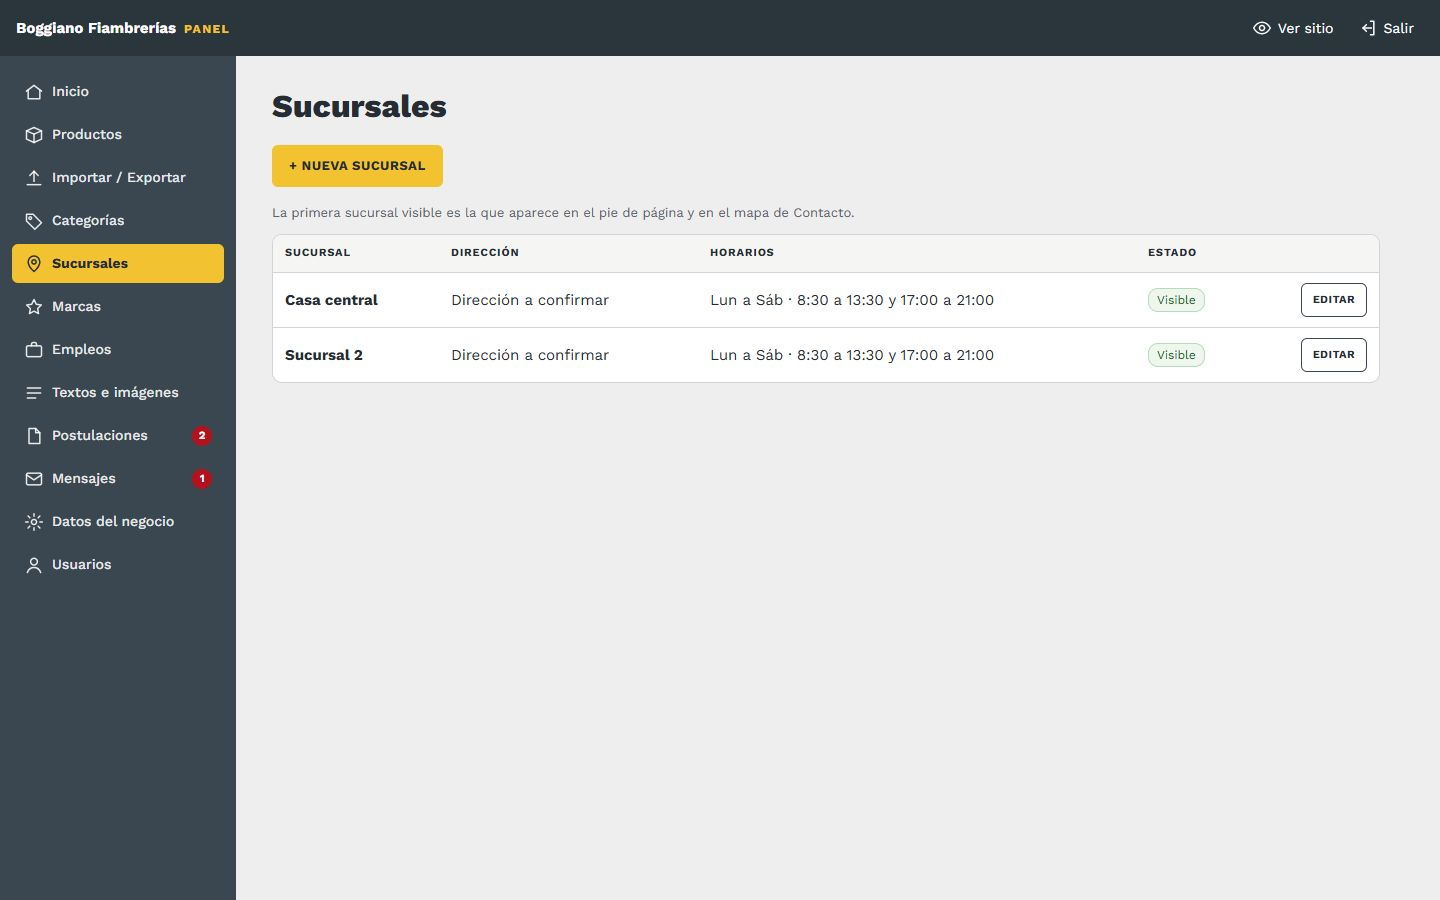
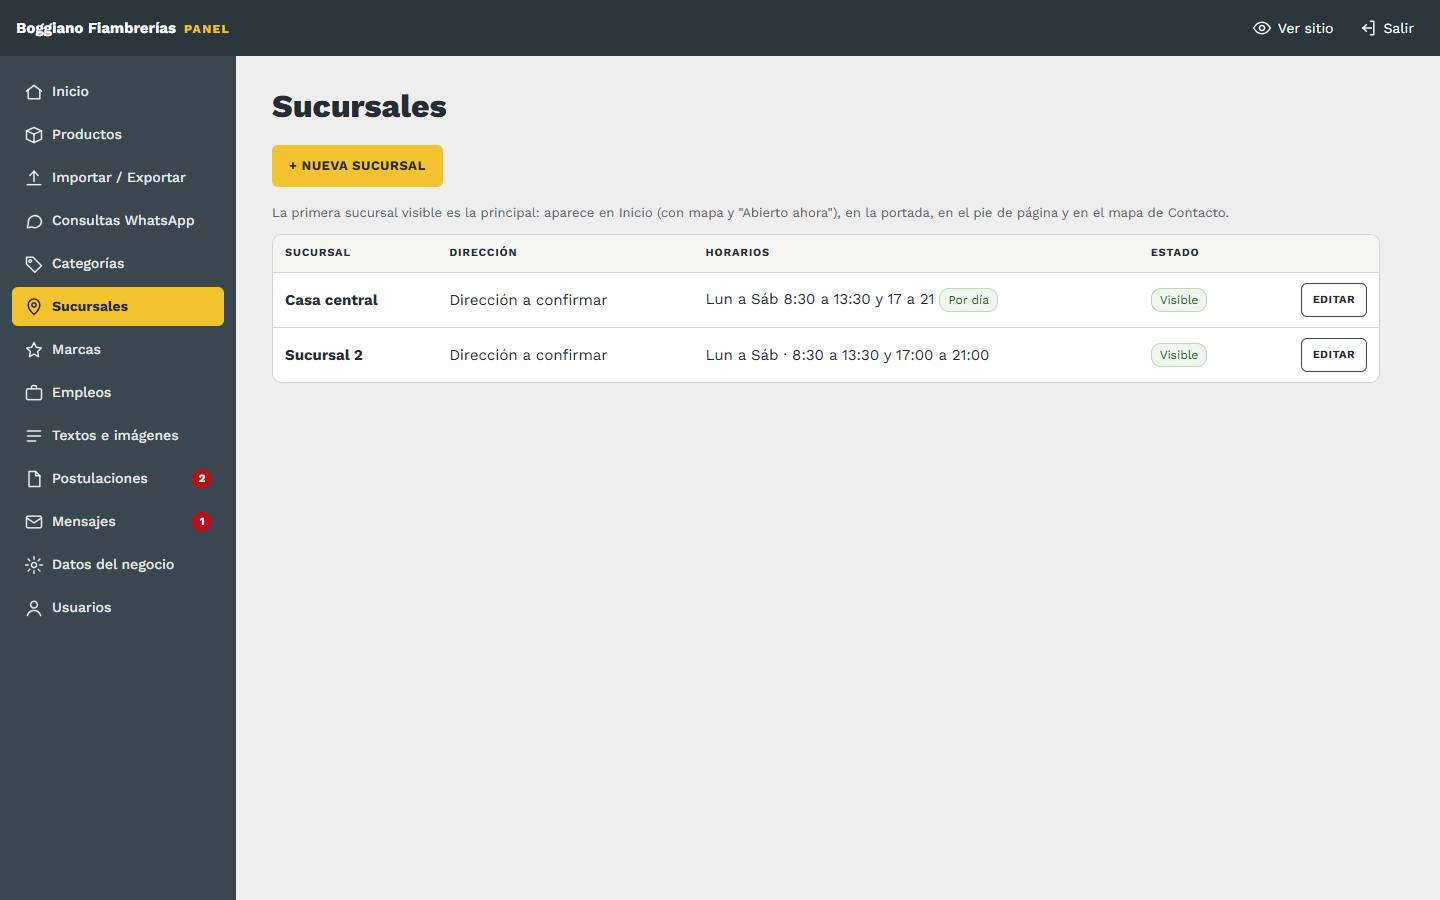
Guía al día con los cambios del 4 y 5 de noviembre
- README: mapa de Inicio (de dónde sale cada parte), pendientes actualizados (sucursales cargadas, WhatsApp general y teléfono) y filas nuevas en Quiero cambiar
- Productos: tarjeta sin WhatsApp propio; Categorías: fichas de color
- Sucursales: captura de la sucursal destacada; Textos: franja de sellos y pestaña WhatsApp
- Mantenimiento: feriados y el cartel Abierto ahora; Consultas: sin botón por producto
- Capturas nuevas de Inicio, destacados, categorías, sucursales, panel de sucursal y Textos

diff --git a/README.md b/README.md
@@ -8,17 +8,30 @@ El panel está en **[boggianofiambrerias.com.ar/admin](https://boggianofiambreri
 
 ![El sitio](img/sitio-inicio.jpg)
 
+## Qué hay en Inicio y de dónde sale cada cosa
+
+| De arriba hacia abajo | Se cambia en |
+|---|---|
+| Botón verde **Consultar** del encabezado y botón flotante **¿Consultás? Escribinos** | El número, en [Datos del negocio](guia/02-datos-del-negocio.md); el mensaje, en [Textos → WhatsApp](guia/10-textos-e-imagenes.md#mensajes-de-whatsapp) |
+| Cartel **"Abierto ahora · cierra a las 21"** | El horario por día de la primera sucursal, en [Sucursales](guia/06-sucursales.md) |
+| Portada: título, texto y la etiqueta sobre la foto | [Textos e imágenes](guia/10-textos-e-imagenes.md) → Inicio; la foto, en Imágenes |
+| Franja amarilla con los **3 sellos** | [Textos e imágenes](guia/10-textos-e-imagenes.md) → Inicio → Sellos |
+| **Fichas de categorías** (en el celular se deslizan de costado) | [Categorías](guia/05-categorias.md) |
+| **Los que más salen**: los primeros 4 destacados | [Productos](guia/03-productos.md), con la estrella ★ |
+| **Te esperamos**: la sucursal principal con mapa, horario de hoy, Cómo llegar y WhatsApp | La primera sucursal visible, en [Sucursales](guia/06-sucursales.md) |
+| **Por qué Boggiano** y **Marcas** | [Textos e imágenes](guia/10-textos-e-imagenes.md) y [Marcas](guia/07-marcas.md) |
+
 ## Para dejar el sitio listo
 
 Hoy el sitio está publicado pero con **datos de ejemplo**. En este orden:
 
 **Urgente**
-- [ ] **WhatsApp real.** Mientras diga `5490000000000`, cada botón "Consultar" lleva a un número que no existe. → [Datos del negocio](guia/02-datos-del-negocio.md)
-- [ ] **Teléfono, Instagram y Facebook.** → [Datos del negocio](guia/02-datos-del-negocio.md)
+- [ ] **WhatsApp general real.** Mientras diga `5490000000000`, los botones generales (Consultar del encabezado, el flotante, el de la portada y el de Contacto) llevan a un número que no existe. Los de cada sucursal ya van al WhatsApp de esa sucursal. → [Datos del negocio](guia/02-datos-del-negocio.md)
+- [ ] **Teléfono, Instagram y Facebook.** El pie de página todavía muestra "(000) 000-0000". → [Datos del negocio](guia/02-datos-del-negocio.md)
 - [ ] **Casillas de correo:** `ventas@` (con la contraseña que tiene cargada el sitio) y el alias `empleos@`. Sin ellas, los avisos de mensajes y CV no salen. → [Correo](guia/12-correo.md)
 
 **Contenido**
-- [ ] **Sucursales:** dirección, horarios y mapa de cada una. → [Sucursales](guia/06-sucursales.md)
+- [x] **Sucursales:** dirección, horario por día, mapa y WhatsApp de cada una (cargadas las 7 el 5/11). → [Sucursales](guia/06-sucursales.md)
 - [ ] **Catálogo real**, cargado desde Excel, y **fotos** de los productos (se pueden subir todas juntas con *Fotos en lote*). Borrá u ocultá los de ejemplo que no vendas. → [Importar](guia/04-importar-exportar.md) · [Fotos en lote](guia/03-productos.md#subir-muchas-fotos-juntas-fotos-en-lote)
 - [ ] **Marcas reales** con su logo. "Marca 2" a "Marca 6" son de ejemplo. → [Marcas](guia/07-marcas.md)
 - [ ] **Búsquedas laborales:** las dos que hay son de ejemplo. → [Empleos](guia/08-empleos-y-postulaciones.md)
@@ -44,12 +57,14 @@ Hoy el sitio está publicado pero con **datos de ejemplo**. En este orden:
 | Muchos productos a la vez | Importar / Exportar | [04](guia/04-importar-exportar.md) |
 | Muchas fotos a la vez | Productos → Fotos en lote | [03](guia/03-productos.md#subir-muchas-fotos-juntas-fotos-en-lote) |
 | Las categorías o el menú "Productos" (agregar, ocultar, borrar) | Categorías | [05](guia/05-categorias.md) |
-| Direcciones, horarios, mapas | Sucursales | [06](guia/06-sucursales.md) |
+| Direcciones, horario por día ("Abierto ahora"), mapas y el WhatsApp de cada sucursal | Sucursales | [06](guia/06-sucursales.md) |
+| Qué sucursal sale destacada en Inicio | Sucursales: la primera visible (orden más bajo) | [06](guia/06-sucursales.md) |
 | Los logos de las marcas | Marcas | [07](guia/07-marcas.md) |
 | Las búsquedas de empleo / ver CV | Empleos · Postulaciones | [08](guia/08-empleos-y-postulaciones.md) |
 | Responder una consulta | Mensajes | [09](guia/09-mensajes.md) |
-| Un texto de cualquier página, el logo, las fotos grandes, la portada con o sin foto | Textos e imágenes | [10](guia/10-textos-e-imagenes.md) |
-| Ver qué productos consultan por WhatsApp | Consultas WhatsApp | [14](guia/14-consultas-por-whatsapp.md) |
+| Un texto de cualquier página, los sellos, la etiqueta sobre la foto, el logo, las fotos grandes, la portada con o sin foto | Textos e imágenes | [10](guia/10-textos-e-imagenes.md) |
+| Lo que queda escrito al abrir WhatsApp | Textos e imágenes → WhatsApp | [10](guia/10-textos-e-imagenes.md#mensajes-de-whatsapp) |
+| Ver cuántas consultas llegan por WhatsApp | Consultas WhatsApp | [14](guia/14-consultas-por-whatsapp.md) |
 | Quién puede entrar al panel | Usuarios | [11](guia/11-usuarios.md) |
 | Leer los mails de las casillas | Webmail o Gmail | [12](guia/12-correo.md) |
 | Respaldos y qué no tocar | — | [13](guia/13-mantenimiento.md) |

diff --git a/guia/14-consultas-por-whatsapp.md b/guia/14-consultas-por-whatsapp.md
@@ -6,17 +6,17 @@
 
 ![Consultas por WhatsApp](../img/consultas.jpg)
 
-Cada vez que alguien toca un botón de WhatsApp del sitio, el panel lo anota. Así ves qué productos interesan y si el sitio trae consultas.
+Cada vez que alguien toca un botón de WhatsApp del sitio, el panel lo anota. Así ves si el sitio trae consultas y por qué sucursal preguntan.
 
 ## Qué muestra
 
 - **Período:** se elige arriba entre los últimos 7, 30 o 90 días.
 - **Totales:** cuántas consultas hubo, separadas según de dónde salieron:
-  - **Desde un producto:** el botón "Consultar" de cada producto.
-  - **Desde una sucursal:** el botón "Consultar" de cada sucursal.
-  - **Botón general:** el botón verde flotante, el del menú en el celular y los de Inicio y Contacto.
+  - **Desde una sucursal:** el botón "WhatsApp" de cada sucursal (en Inicio y en Sucursales).
+  - **Botón general:** el "Consultar" del encabezado, el flotante, el del menú en el celular, el de la portada, el de Contacto y el del catálogo cuando una búsqueda no encuentra nada.
+  - **Desde un producto:** solo consultas viejas. Los productos ya no tienen botón propio, así que este número deja de crecer.
 - **Consultas por día:** pasá el mouse por una barra para ver el número de ese día.
-- **Productos y sucursales más consultados**, y **desde qué página** llegaron.
+- **Sucursales más consultadas** (y los productos de antes, mientras entren en el período), y **desde qué página** llegaron.
 
 ## Bueno saber
 
@@ -24,5 +24,6 @@ Cada vez que alguien toca un botón de WhatsApp del sitio, el panel lo anota. As
 - **No se guarda nada de la persona:** ni su número, ni su nombre, ni qué escribió.
 - **Clics repetidos:** una misma conexión cuenta hasta 30 clics por hora, así nadie infla los números tocando el botón muchas veces.
 - **Para qué sirve:**
-  - **Fotos:** los productos que más se consultan son los primeros a los que conviene ponerles foto.
-  - **Destacados:** conviene marcar esos productos como destacados, así aparecen en Inicio.
+  - **Ver si la web trae clientes:** si el total sube después de una publicación en redes o de un cambio en el sitio, funcionó.
+  - **Sucursales:** cuál recibe más consultas desde la web, para reforzar la atención por WhatsApp de esa sucursal.
+  - **Desde qué página:** si llegan desde Productos, el catálogo se está usando; si es mayormente desde Inicio, conviene destacar bien los productos que más salen.

diff --git a/guia/10-textos-e-imagenes.md b/guia/10-textos-e-imagenes.md
@@ -21,12 +21,17 @@
 |---|---|
 | **Inicio** | Título de la pestaña del navegador, descripción para Google, la portada (etiqueta, título, título en amarillo, texto y la **etiqueta sobre la foto**; escribí `-` para no mostrarla), los **3 sellos** de la franja amarilla, los títulos de las secciones (incluida la de la sucursal, "Te esperamos") y los 4 motivos de "Por qué Boggiano" |
 | **Productos** | Descripción para Google y el encabezado (etiqueta, título y texto) |
+| **WhatsApp** | Los mensajes que quedan escritos al abrir el chat (ver abajo) |
 | **Sucursales** | Descripción para Google y el encabezado |
 | **Nosotros** | Descripción para Google, encabezado, **historia** (título y dos párrafos), los 4 valores y la banda final |
 | **Marcas** | Descripción para Google, encabezado y la banda "¿Tenés una marca?" |
 | **Proveedores** | Descripción para Google, encabezado, "Qué buscamos", los 3 requisitos y el título del formulario |
 | **Empleos** | Descripción para Google, encabezado, el título de las búsquedas y el del formulario |
 | **Contacto** | Descripción para Google, encabezado y el título del formulario |
+
+![Franja de sellos en Inicio](../img/sitio-sellos.jpg)
+
+*La franja de sellos, debajo de la portada. Sus 3 textos están en Inicio → Sellos.*
 
 ### Mensajes de WhatsApp
 

diff --git a/guia/05-categorias.md b/guia/05-categorias.md
@@ -22,10 +22,10 @@ Tocá la etiqueta **Visible** de la lista (pasa a **Oculta**), o destildá **Vis
 
 | Campo | Qué cambia en el sitio |
 |---|---|
-| **Nombre** | El botón de filtro del catálogo, la tarjeta de Inicio, el menú desplegable "Productos" y la lista del pie |
-| **Ícono** | El dibujo de la tarjeta en Inicio, y el de los productos de esa categoría que no tienen foto |
+| **Nombre** | El botón de filtro del catálogo, la ficha de Inicio, el menú desplegable "Productos" y la lista del pie |
+| **Ícono** | El dibujo de la ficha de color en Inicio, y el de los productos de esa categoría que no tienen foto |
 | **Columna del menú** | En cuál de las **4 columnas** del desplegable "Productos" aparece |
-| **Orden** | El orden de los filtros, de las tarjetas de Inicio y del pie (menor primero) |
+| **Orden** | El orden de los filtros, de las fichas de Inicio y del pie (menor primero). Los colores de las fichas se alternan solos según el orden |
 | **Subcategorías y tipos** | Los filtros debajo de la categoría en el catálogo (una fila para subcategorías y, si la subcategoría tiene tipos, otra fila más abajo), y la lista del desplegable |
 
 ![Menú desplegable de productos](../img/sitio-menu-productos.jpg)

diff --git a/guia/06-sucursales.md b/guia/06-sucursales.md
@@ -34,6 +34,8 @@ El estado se calcula con la **hora de Argentina** en el momento en que la person
 ![Sucursales en el sitio](../img/sitio-sucursales.jpg)
 
 - **Inicio:** la **primera sucursal visible** sale destacada en "Te esperamos", con mapa, el cartel de abierto o cerrado, el horario de hoy y los botones **Cómo llegar** y **WhatsApp**. Su estado también aparece arriba de todo en la portada.
+![Sucursal destacada en Inicio](../img/sitio-sucursal-inicio.jpg)
+
 - **Página Sucursales:** una tarjeta por sucursal visible, con mapa, el cartel de abierto o cerrado, dirección, horarios, **Cómo llegar** (abre Google Maps con el recorrido) y **WhatsApp**, que abre el chat con el nombre de esa sucursal en el mensaje.
 - **Página Contacto:** la lista de sucursales, y el **mapa de la primera**.
 - **Pie de página:** la dirección y los horarios de la **primera sucursal visible**.

diff --git a/guia/13-mantenimiento.md b/guia/13-mantenimiento.md
@@ -27,7 +27,7 @@ El sitio vive en el hosting en dos carpetas. Desde el panel del sitio no hace fa
 - **Postulaciones:** borrá las que ya no necesites (Ley 25.326).
 - **Fotos:** revisá en el panel los productos **sin foto** y ocultá los que ya no vendés.
 - **Búsquedas laborales:** cerrá las que ya cubriste.
-- **Horarios:** en fechas especiales (fiestas, feriados), cambialos en [Sucursales](06-sucursales.md), y si hace falta en la portada desde [Textos](10-textos-e-imagenes.md).
+- **Horarios:** el cartel "Abierto ahora" **no sabe de feriados**. Para un feriado o una fecha especial, cambiá ese día en el **horario por día** de [Sucursales](06-sucursales.md) (dejalo vacío si cierran) y volvé a ponerlo después. Si hace falta avisarlo, sumalo al texto de la portada desde [Textos](10-textos-e-imagenes.md).
 
 ## Vencimientos
 

diff --git a/guia/03-productos.md b/guia/03-productos.md
@@ -58,6 +58,8 @@ Tocá **+ Nuevo producto** o **Editar**.
 | Destacado | **Los primeros 4** destacados, según el orden, salen en Inicio, en "Los que más salen", con la etiqueta roja *Destacado* |
 | Orden | El orden de las tarjetas en el catálogo y cuáles 4 destacados se ven en Inicio |
 
+**La tarjeta de cada producto** muestra la foto a todo el ancho, la **marca** arriba del nombre y, en gris, dónde está en el catálogo (categoría · subcategoría · tipo). **No tiene botón de WhatsApp propio:** para consultar se usa el botón verde del encabezado o el flotante.
+
 | Así se ven los destacados en Inicio | Así se ven las categorías en Inicio |
 |---|---|
 | ![Destacados](../img/sitio-destacados.jpg) | ![Categorías](../img/sitio-categorias.jpg) |
